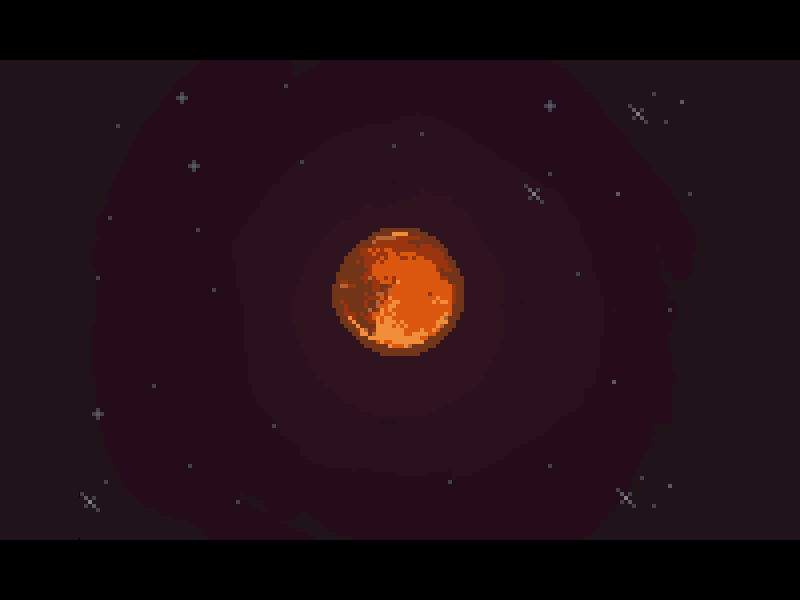
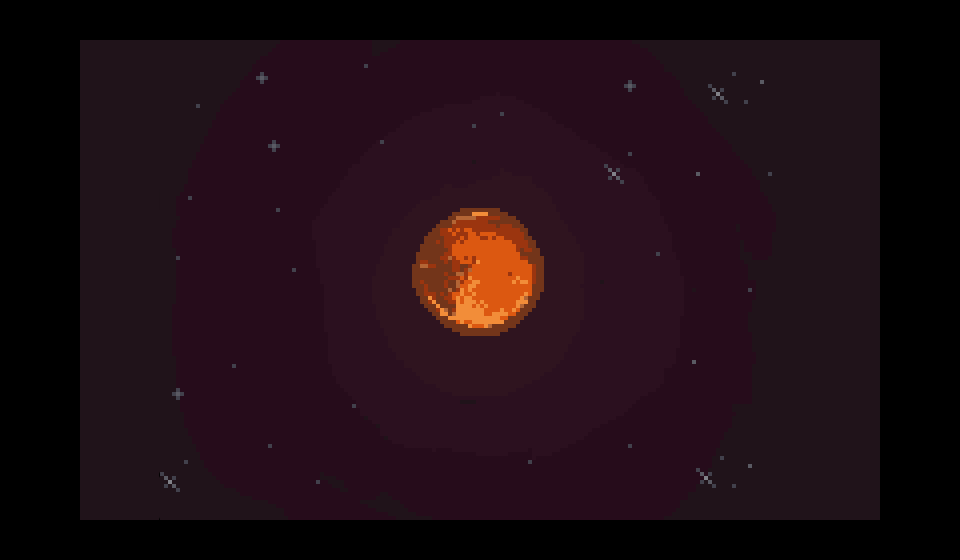
updates

diff --git a/src/LD30.js b/src/LD30.js
@@ -1440,21 +1440,21 @@ var RadmarsRenderable = me.Renderable.extend({
 
     draw: function(context) {
         context.drawImage( this.bg, 0, 0 );
-        if( this.counter < 130) context.drawImage( this.text_mars, 266+80, 317+60 );
-        else if( this.counter < 135) context.drawImage( this.text_radmars2, 224+80, 317+60 );
-        else if( this.counter < 140) context.drawImage( this.text_radmars1, 224+80, 317+60 );
-        else if( this.counter < 145) context.drawImage( this.text_radmars2, 224+80, 317+60 );
-        else if( this.counter < 150) context.drawImage( this.text_radmars1, 224+80, 317+60 );
-        else if( this.counter < 155) context.drawImage( this.text_radmars2, 224+80, 317+60 );
-        else if( this.counter < 160) context.drawImage( this.text_radmars1, 224+80, 317+60 );
-        else if( this.counter < 165) context.drawImage( this.text_radmars2, 224+80, 317+60 );
-        else context.drawImage( this.text_radmars1, 224+80, 317+60 );
+        if( this.counter < 130) context.drawImage( this.text_mars, 266+80+79, 317+60-20 );
+        else if( this.counter < 135) context.drawImage( this.text_radmars2, 224+80+79, 317+60-20 );
+        else if( this.counter < 140) context.drawImage( this.text_radmars1, 224+80+79, 317+60-20 );
+        else if( this.counter < 145) context.drawImage( this.text_radmars2, 224+80+79, 317+60-20 );
+        else if( this.counter < 150) context.drawImage( this.text_radmars1, 224+80+79, 317+60-20 );
+        else if( this.counter < 155) context.drawImage( this.text_radmars2, 224+80+79, 317+60-20 );
+        else if( this.counter < 160) context.drawImage( this.text_radmars1, 224+80+79, 317+60-20 );
+        else if( this.counter < 165) context.drawImage( this.text_radmars2, 224+80+79, 317+60-20 );
+        else context.drawImage( this.text_radmars1, 224+80+79, 317+60-20 );
 
-        if( this.counter < 100) context.drawImage( this.glasses1, 249+80, 229*(this.counter/100)+60 );
-        else if( this.counter < 105) context.drawImage( this.glasses2, 249+80, 229+60 );
-        else if( this.counter < 110) context.drawImage( this.glasses3, 249+80, 229+60 );
-        else if( this.counter < 115) context.drawImage( this.glasses4, 249+80, 229+60 );
-        else context.drawImage( this.glasses1, 249+80, 229+60 );
+        if( this.counter < 100) context.drawImage( this.glasses1, 249+80+79, 229*(this.counter/100)+60-20 );
+        else if( this.counter < 105) context.drawImage( this.glasses2, 249+80+79, 229+60-20 );
+        else if( this.counter < 110) context.drawImage( this.glasses3, 249+80+79, 229+60-20 );
+        else if( this.counter < 115) context.drawImage( this.glasses4, 249+80+79, 229+60-20 );
+        else context.drawImage( this.glasses1, 249+80+79, 229+60-20 );
     },
 
     update: function( dt ) {
